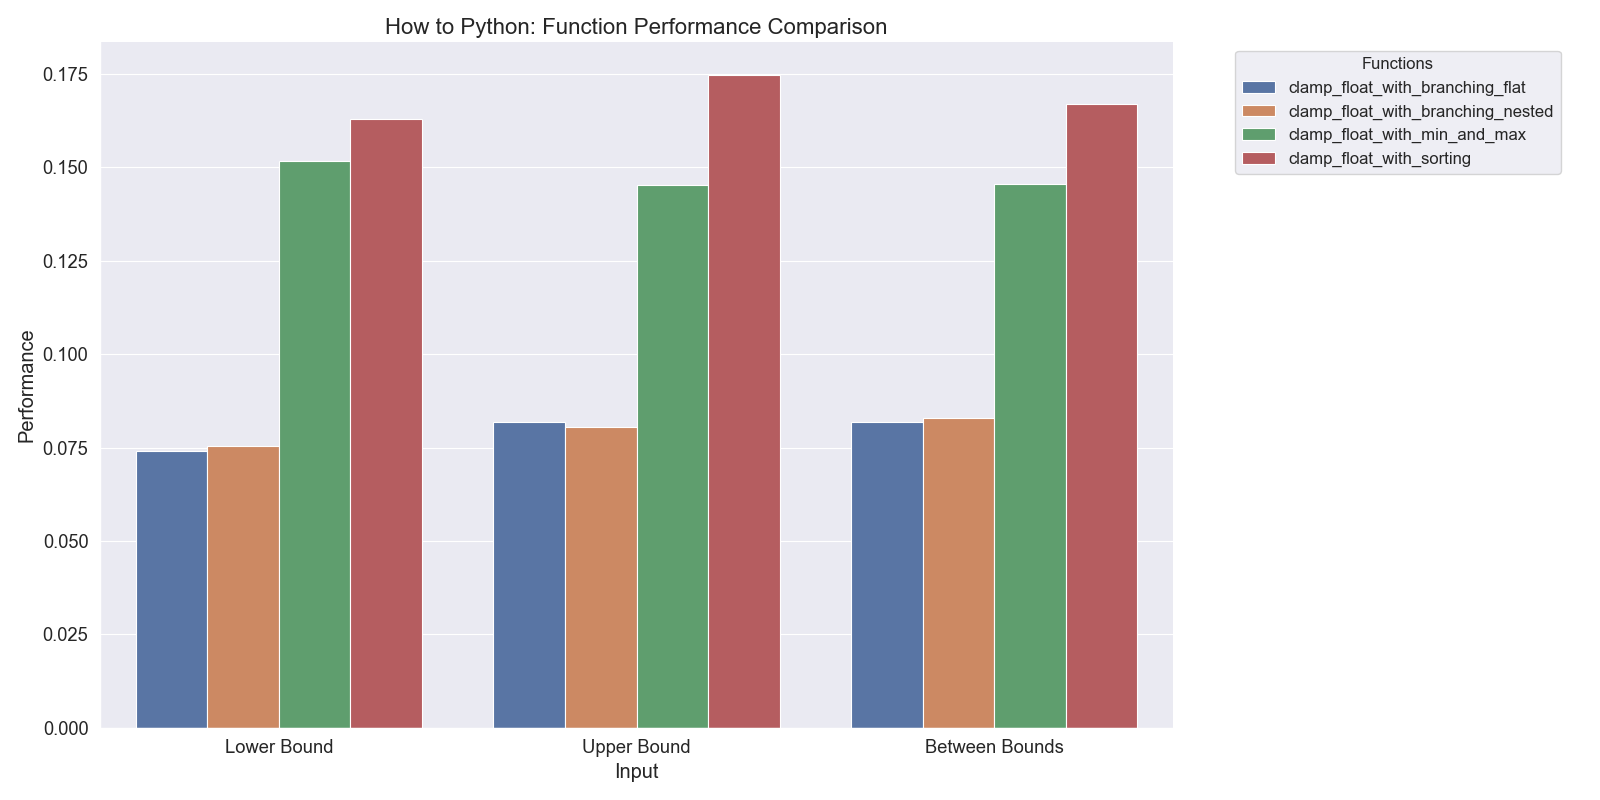
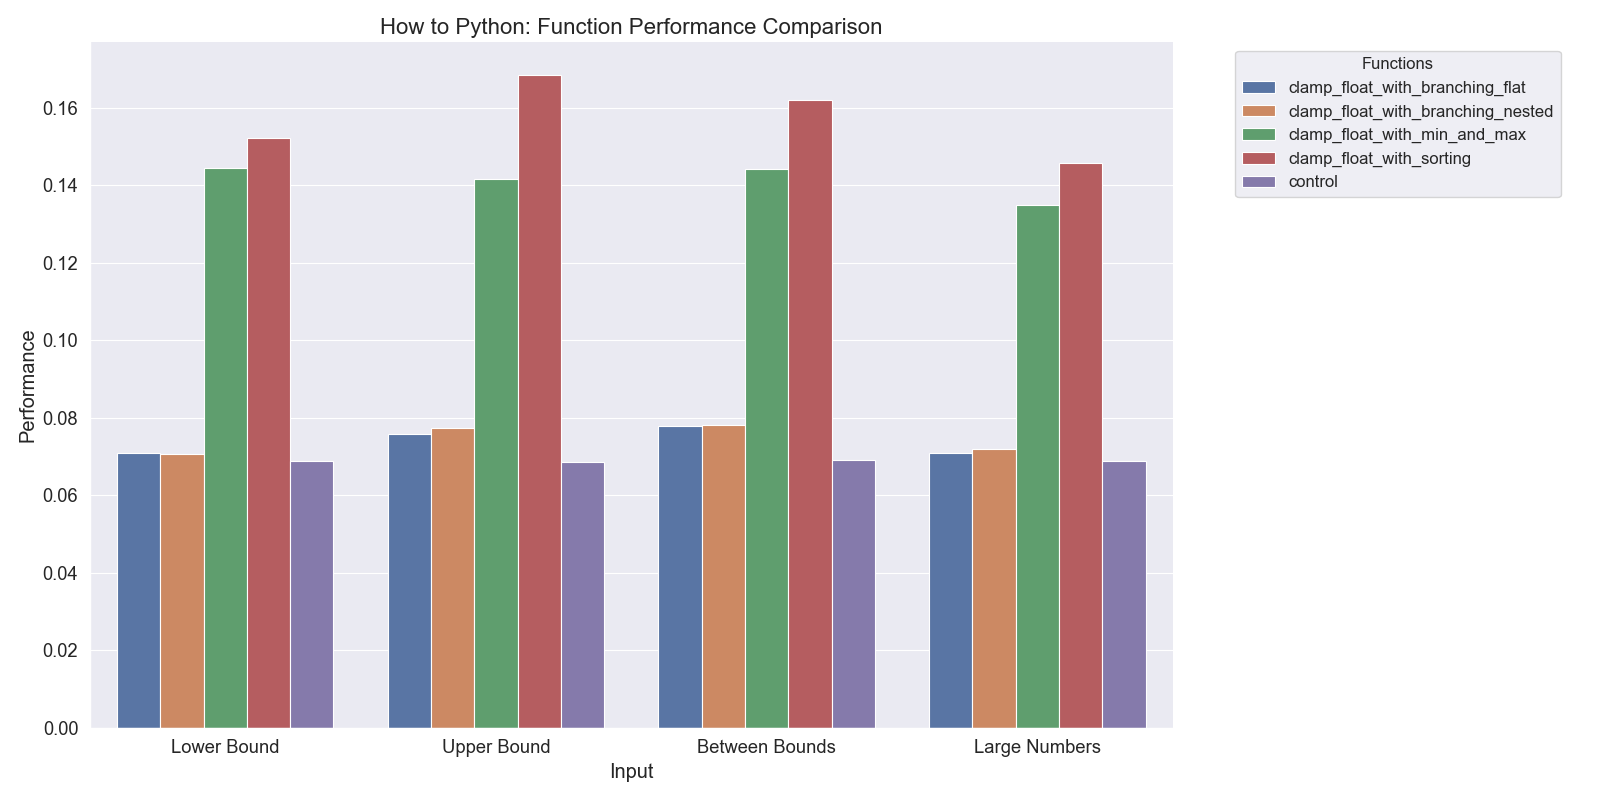
Added a large numbers test

diff --git a/testing/how_to_clamp_a_float.py b/testing/how_to_clamp_a_float.py
@@ -6,7 +6,7 @@ https://therenegadecoder.com/code/how-to-clamp-a-floating-point-number-in-python
 from test_bench import test_bench
 
 
-def control(_) -> None:
+def control(*_) -> None:
     """
     Provides a control scenario for testing. In this case, none of the functions
     share any overhead, so this function is empty.
@@ -75,6 +75,7 @@ if __name__ == "__main__":
         {
             "Lower Bound": [-.002, 0, .40],
             "Upper Bound": [.402, 0, .40],
-            "Between Bounds": [.14, 0, .4]
+            "Between Bounds": [.14, 0, .4],
+            "Large Numbers": [123456789, -432512317, 5487131463]
         }
     )
